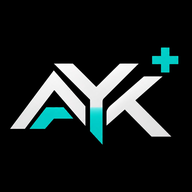
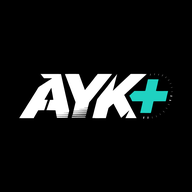
v55: yeni simge (vektörden; ızgarasız A seçeneği)

Changed region(s): [[0.0312, 0.2188, 0.9375, 0.75], [0.1562, 0.4375, 0.2188, 0.5312]]

diff --git a/scripts/simge/simge.py b/scripts/simge/simge.py
@@ -1,0 +1,16 @@
+# v55: uygulama simgelerini scripts/simge/ayk-simge.svg'den üretir (opak RGB PNG; iOS simgesi şeffaf olamaz).
+# Kullanım: python scripts/simge/simge.py   → icon.png (180), icon-192.png, icon-512.png, scripts/simge/icon-1024.png (mağaza; uygulamada sunulmaz)
+import os, io
+from PIL import Image
+from playwright.sync_api import sync_playwright
+KOK = os.path.dirname(os.path.dirname(os.path.dirname(os.path.abspath(__file__))))
+SVG = open(os.path.join(KOK, "scripts", "simge", "ayk-simge.svg"), encoding="utf-8").read()
+OUT = {"icon.png": 180, "icon-192.png": 192, "icon-512.png": 512, "scripts/simge/icon-1024.png": 1024}
+with sync_playwright() as p:
+    b = p.chromium.launch(); pg = b.new_page(viewport={"width": 1024, "height": 1024})
+    pg.set_content('<html><body style="margin:0;background:#000">' + SVG.replace("<svg ", '<svg width="1024" height="1024" ', 1) + "</body></html>")
+    big = Image.open(io.BytesIO(pg.screenshot(clip={"x": 0, "y": 0, "width": 1024, "height": 1024}))).convert("RGB")
+    b.close()
+for name, size in OUT.items():
+    (big if size == 1024 else big.resize((size, size), Image.LANCZOS)).save(os.path.join(KOK, name), optimize=True)
+    print(name, size)
